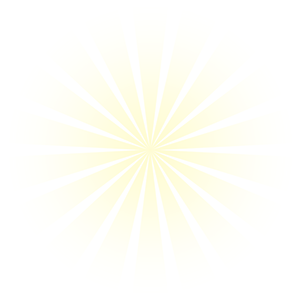
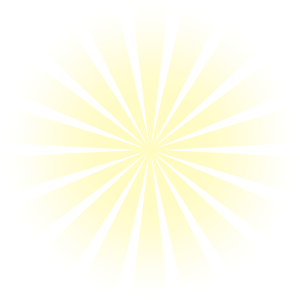
v46

Changed region(s): [[0.21, 0.18, 0.81, 0.81]]

diff --git a/src/variants/main_style/scenes/tableScene.js b/src/variants/main_style/scenes/tableScene.js
@@ -4069,11 +4069,22 @@ export class TableScene extends Phaser.Scene {
     }
     const baseScale = this.getSeatHoleCardScale(seatView);
     seatView.holeCards.forEach((holeCard) => {
+      const prevBase = holeCard.baseScaleX;
       holeCard.baseScaleX = baseScale;
       holeCard.baseScaleY = baseScale;
-      if (!holeCard.inFlight && !holeCard.isFlipping && !holeCard.flipPopTween) {
-        holeCard.sprite.setScale(baseScale);
+      if (holeCard.inFlight || holeCard.isFlipping || holeCard.flipPopTween) {
+        return;
       }
+      if (holeCard.faceFrameKey) {
+        // Card is showing face — only update sprite scale if base changed,
+        // and use the face-adjusted scale to avoid a one-frame zoom flash.
+        if (prevBase !== baseScale) {
+          const faceScale = this.resolveHoleFaceScale(baseScale, baseScale, holeCard.faceFrameKey);
+          holeCard.sprite.setScale(faceScale.scaleX, faceScale.scaleY);
+        }
+        return;
+      }
+      holeCard.sprite.setScale(baseScale);
     });
   }
 
